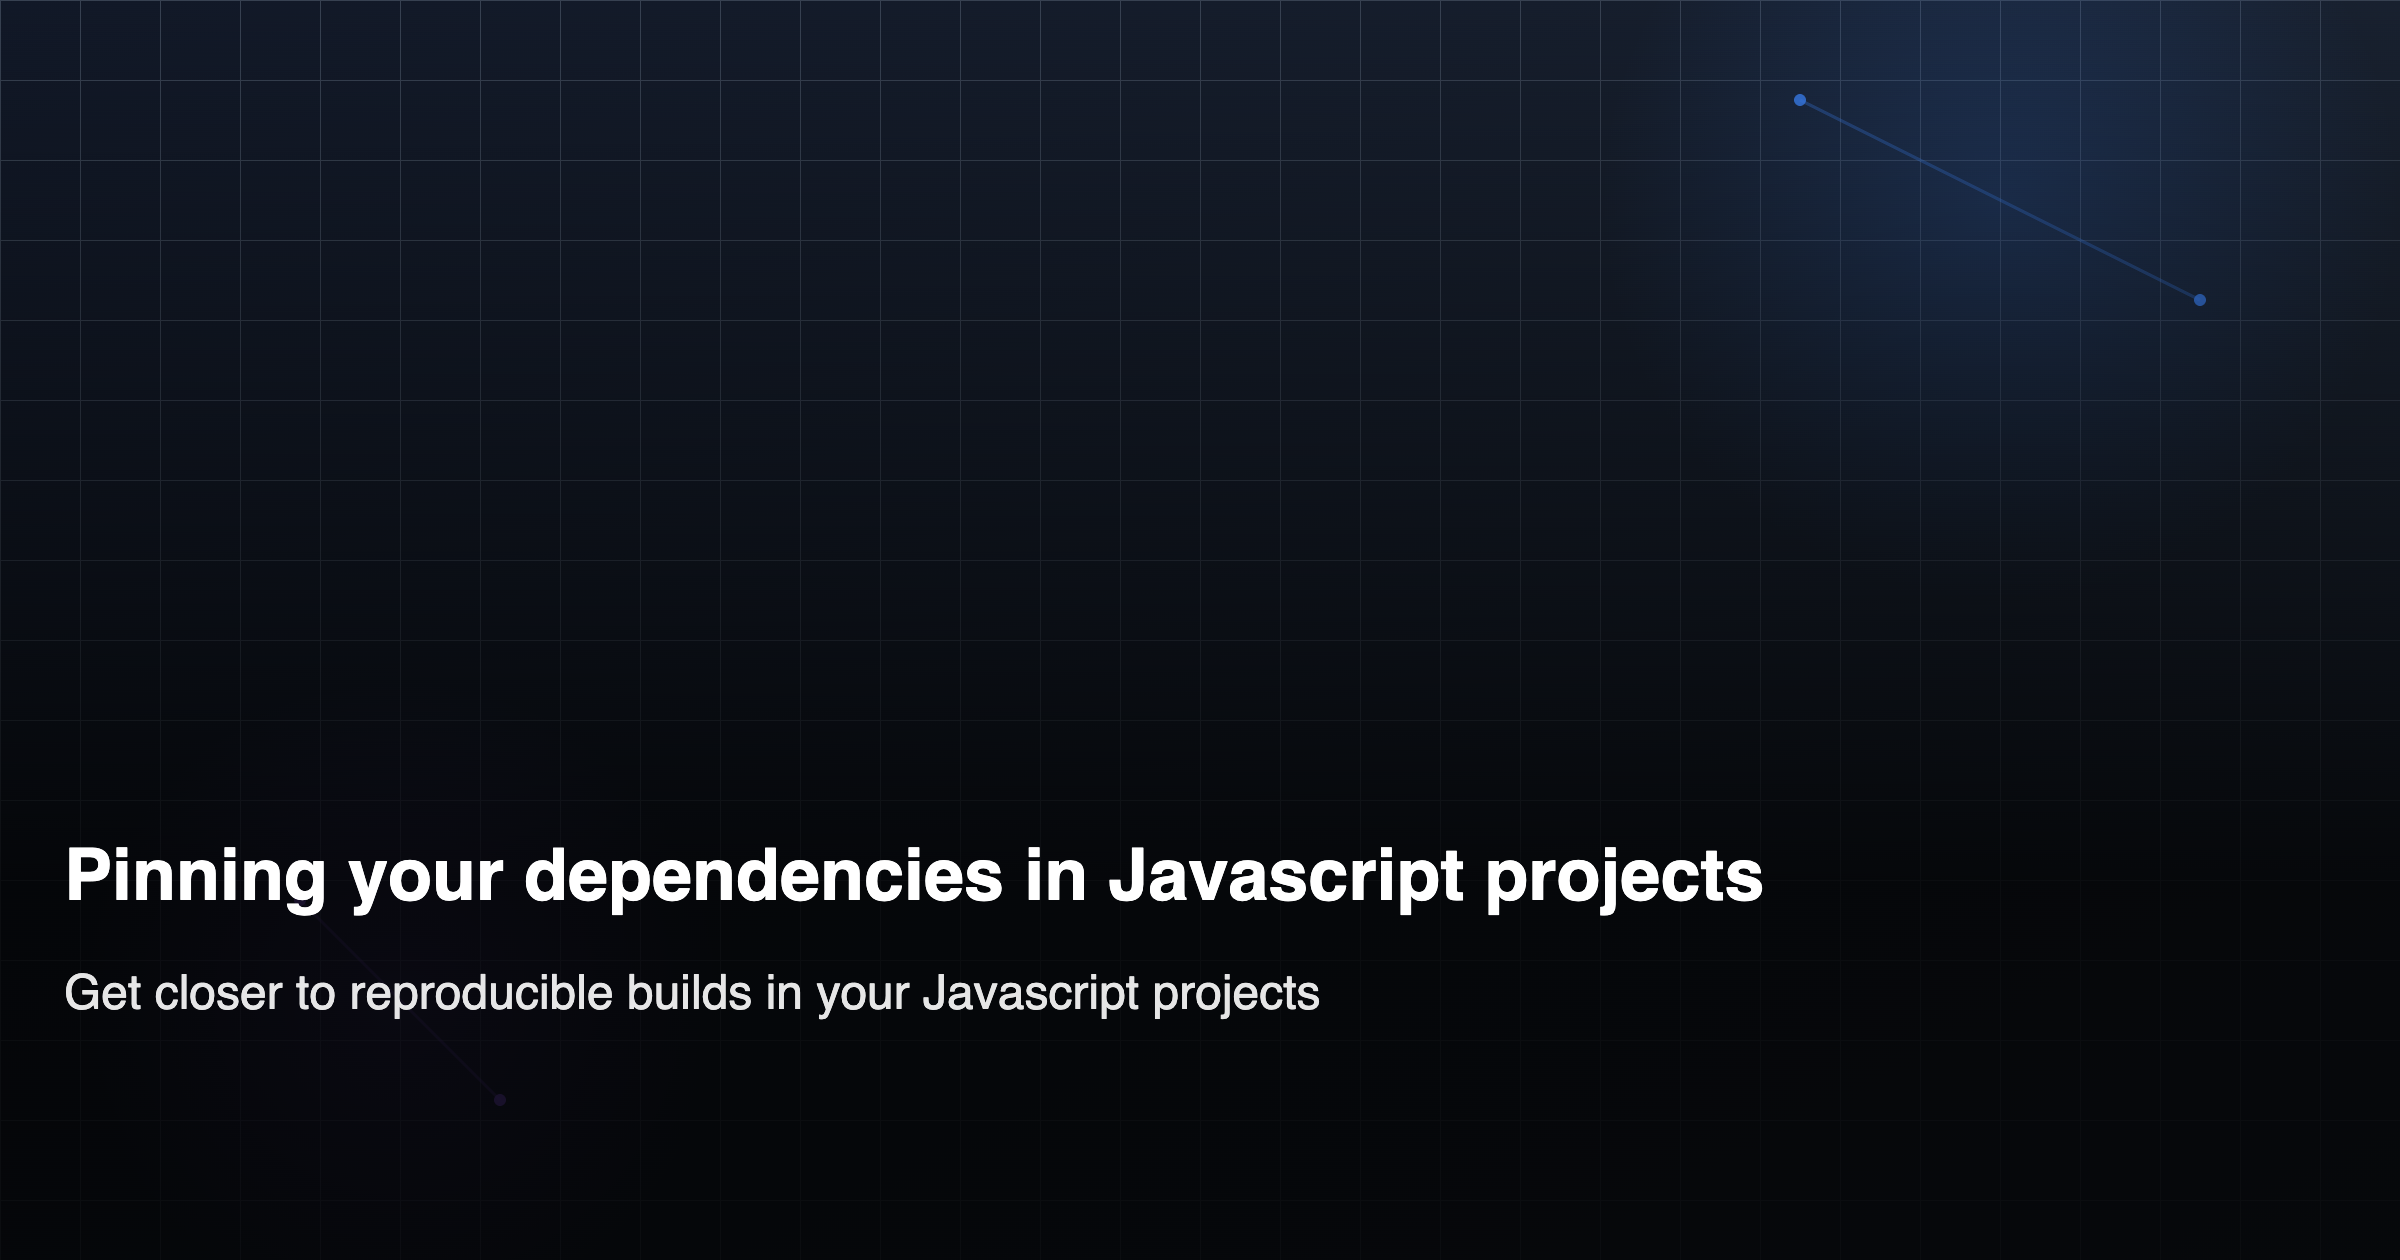
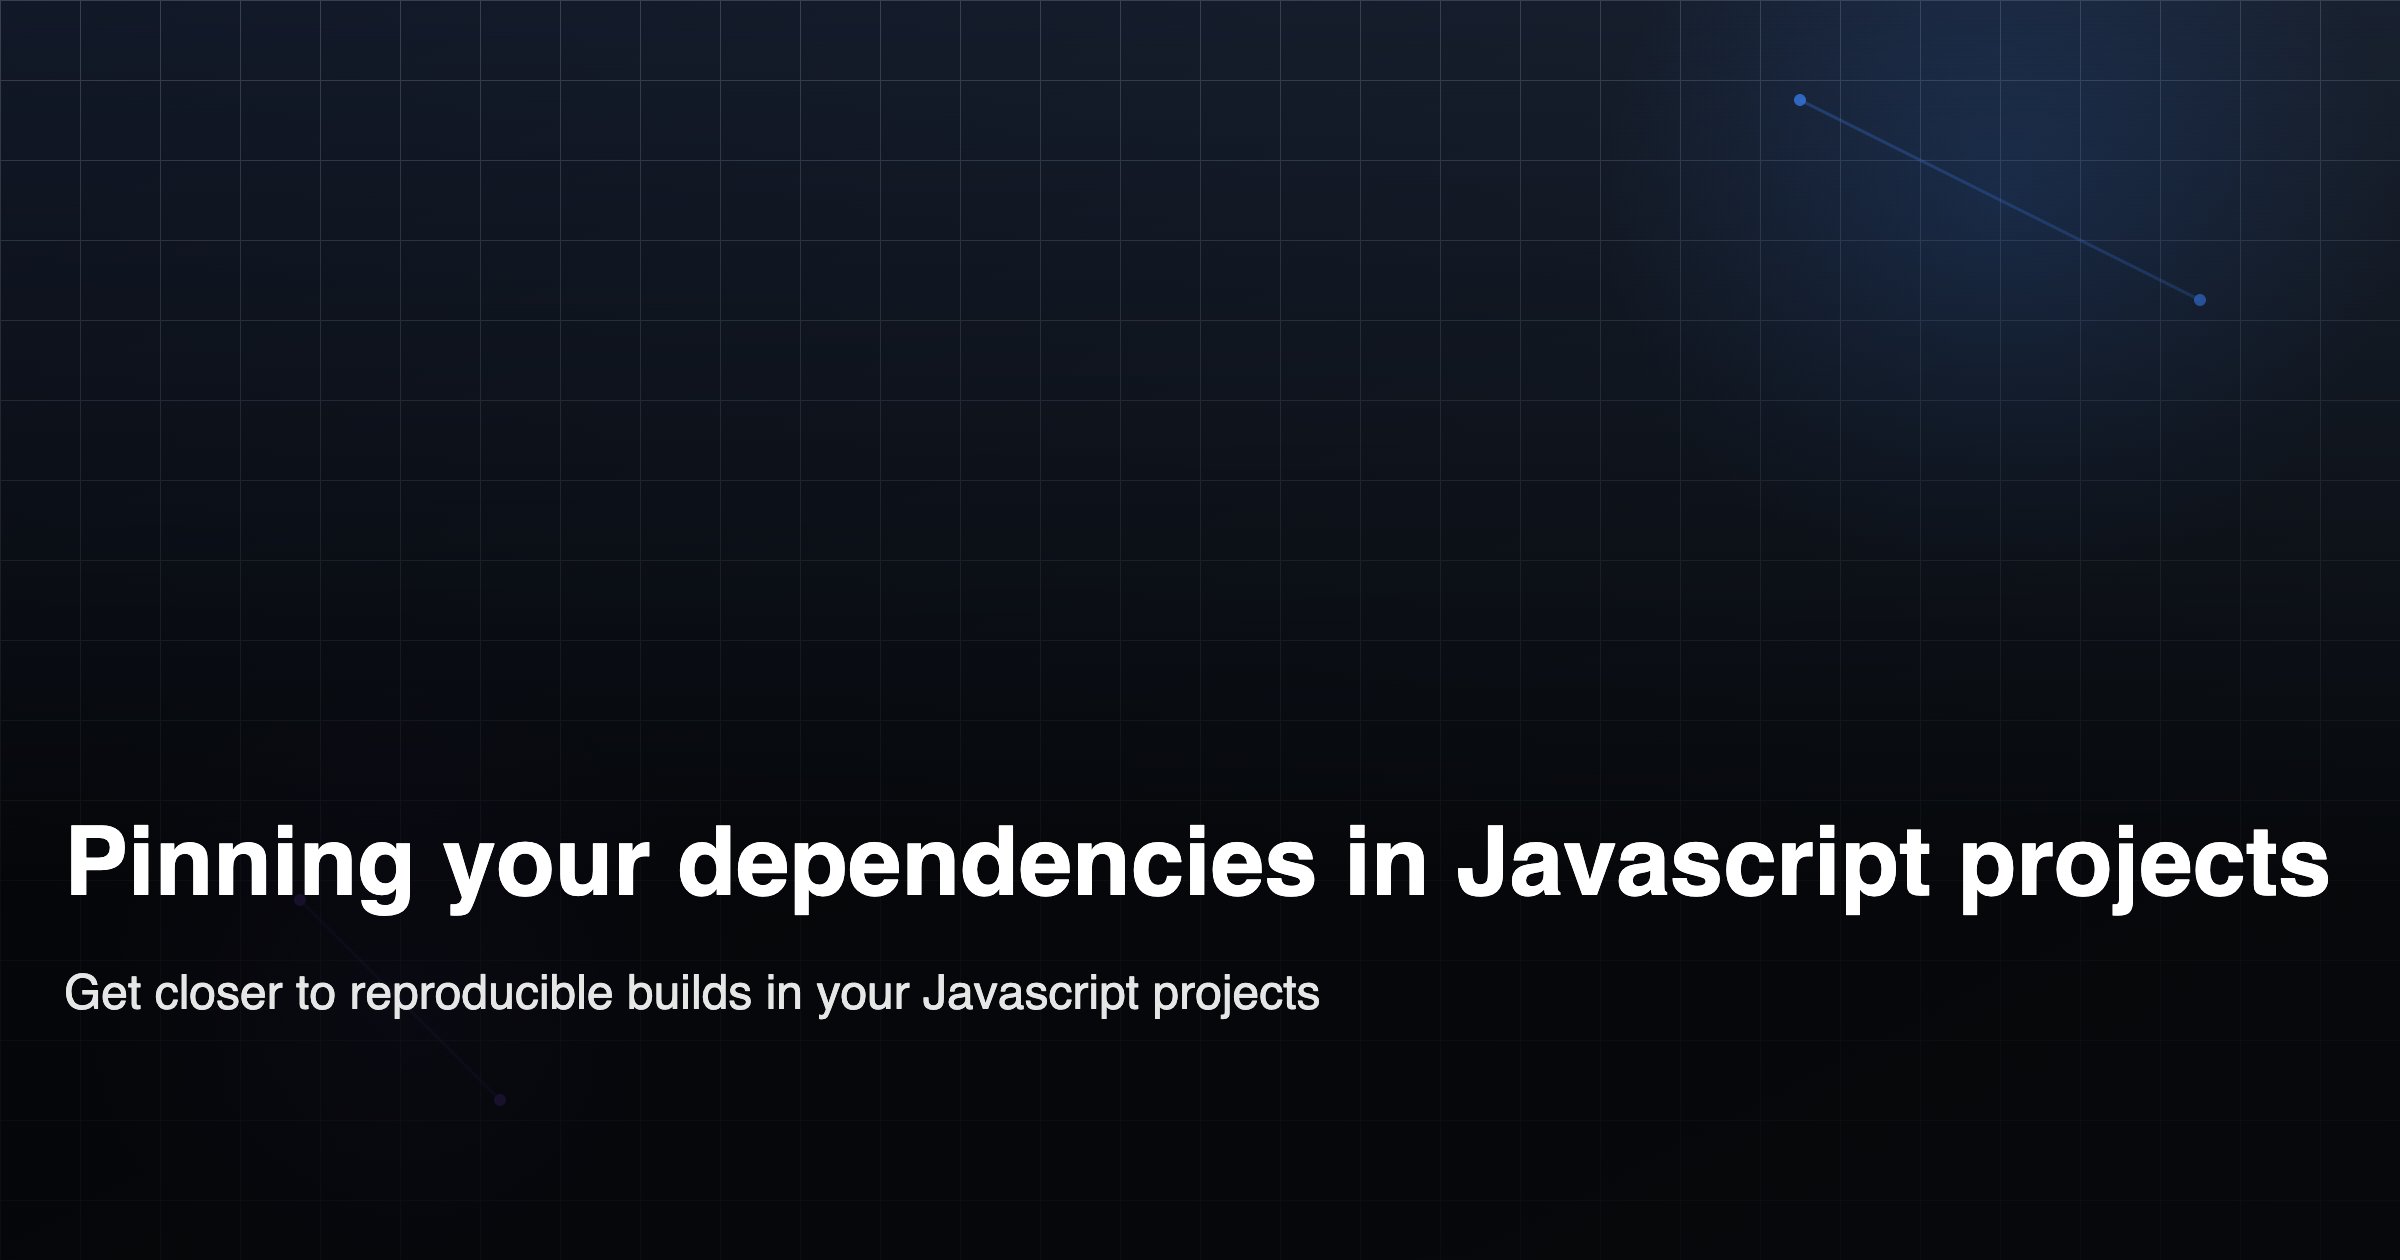
Adjustments

Changed region(s): [[0.0312, 0.65, 0.9688, 0.7429]]

diff --git a/app/components/OGGraphImage.tsx b/app/components/OGGraphImage.tsx
@@ -83,7 +83,7 @@ export async function generateOgImage({
             </svg>
             <div style="position: absolute; inset: 0; padding: 32px; display: flex; flex-direction: column; justify-content: flex-end; background: linear-gradient(to top, rgba(0,0,0,0.8) 0%, rgba(0,0,0,0.8) 30%, transparent 100%);">
               <div style="max-width: 72rem; padding-bottom: 64px;">
-                <h2 style="font-size: 36px; font-weight: bold; margin-bottom: 16px; color: white;">${title}</h2>
+                <h2 style="font-size: 48px; font-weight: bold; margin-bottom: 16px; color: white;">${title}</h2>
                 <p style="font-size: 24px; opacity: 0.9; color: white;">${description}</p>
               </div>
             </div>
